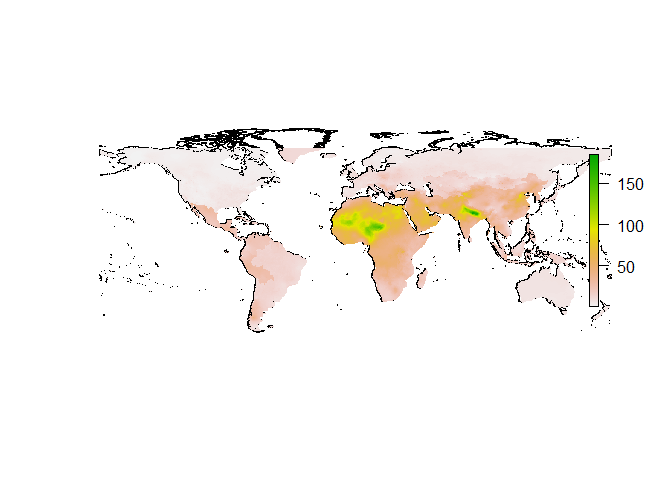
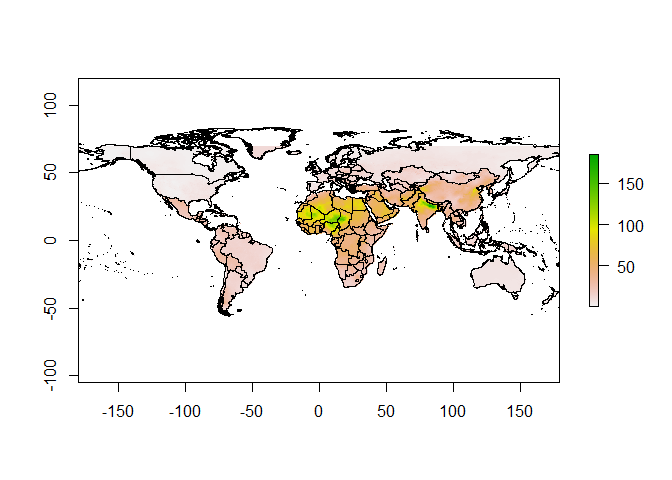
update readme

diff --git a/README.md b/README.md
@@ -62,10 +62,10 @@ data_new = pred_2016 %>% dplyr::select("Longitude", "Latitude",  "Mean")
 # generate raster from prediction
 r = raster::rasterFromXYZ(data_new)
 # set crs the same as WHO world map
-crs(r) = raster::crs(who_world_map)
+crs(r) = crs(who_world_map)
 # base plot
-plot(who_world_map$geometry)
-plot(r, add = T)
+plot(r)
+plot(who_world_map$geometry, add = T)
 ```
 
 <img src="man/figures/README-unnamed-chunk-2-1.png" width="100%" />
